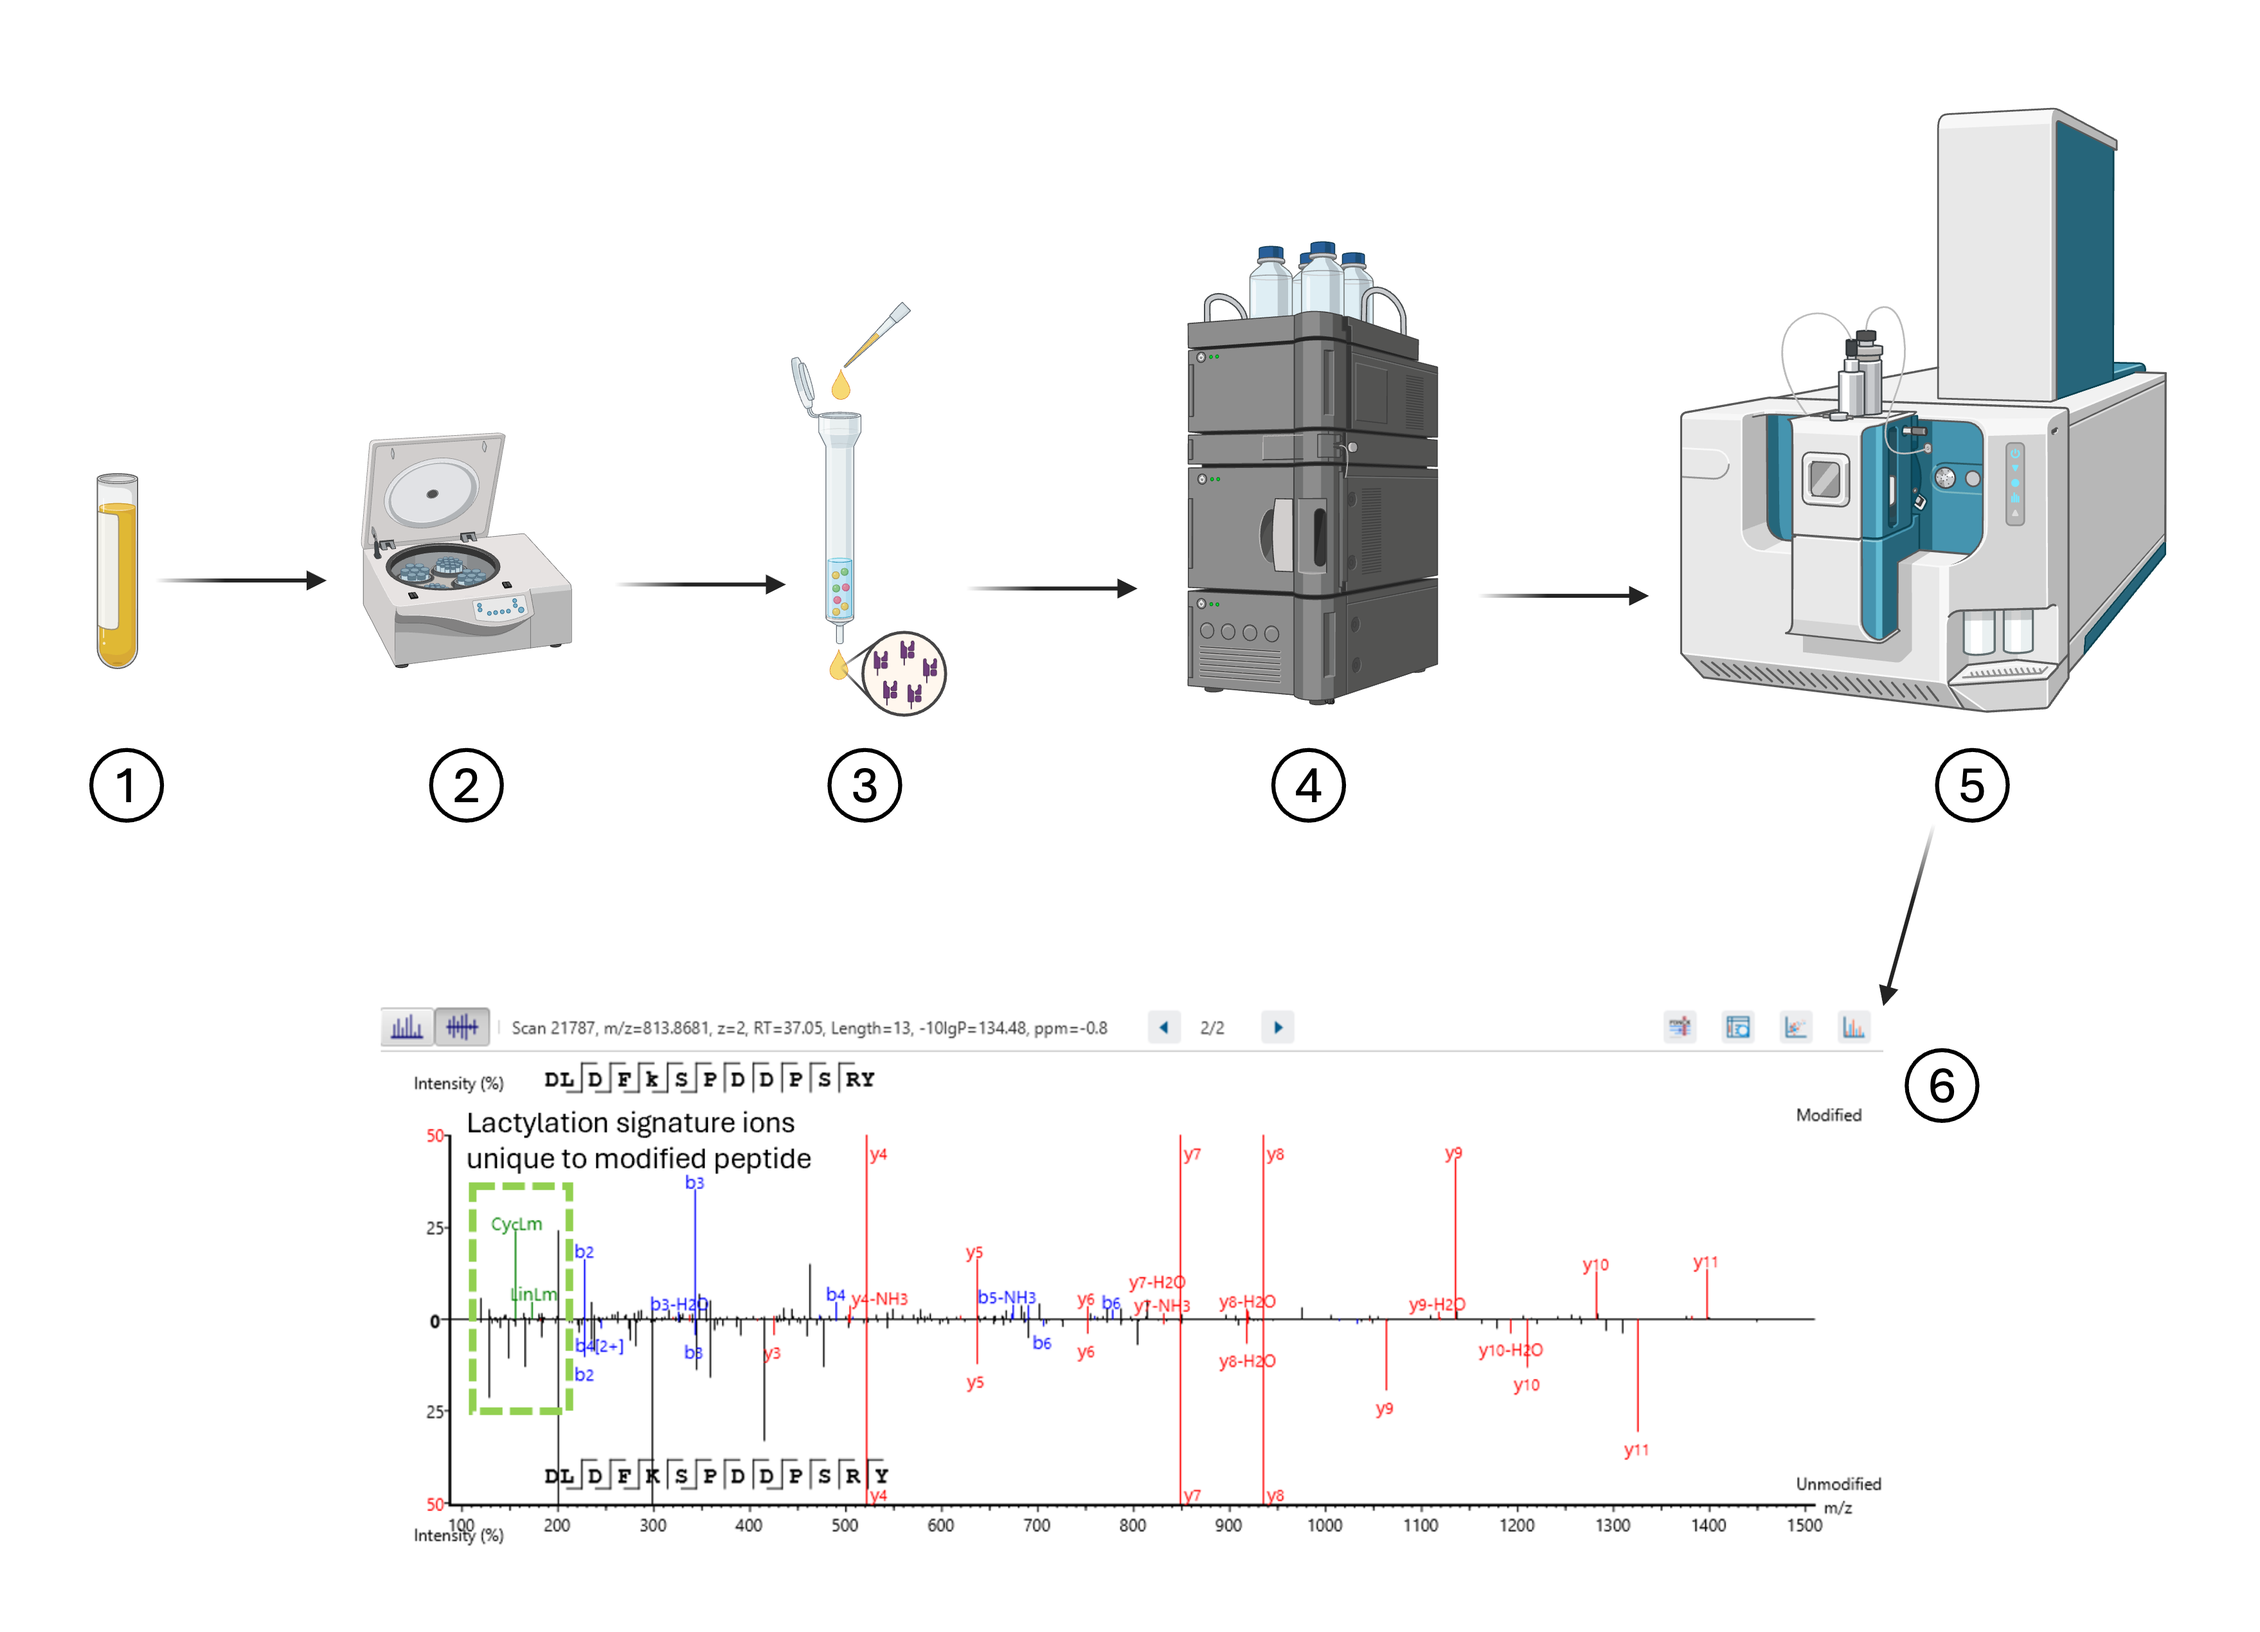
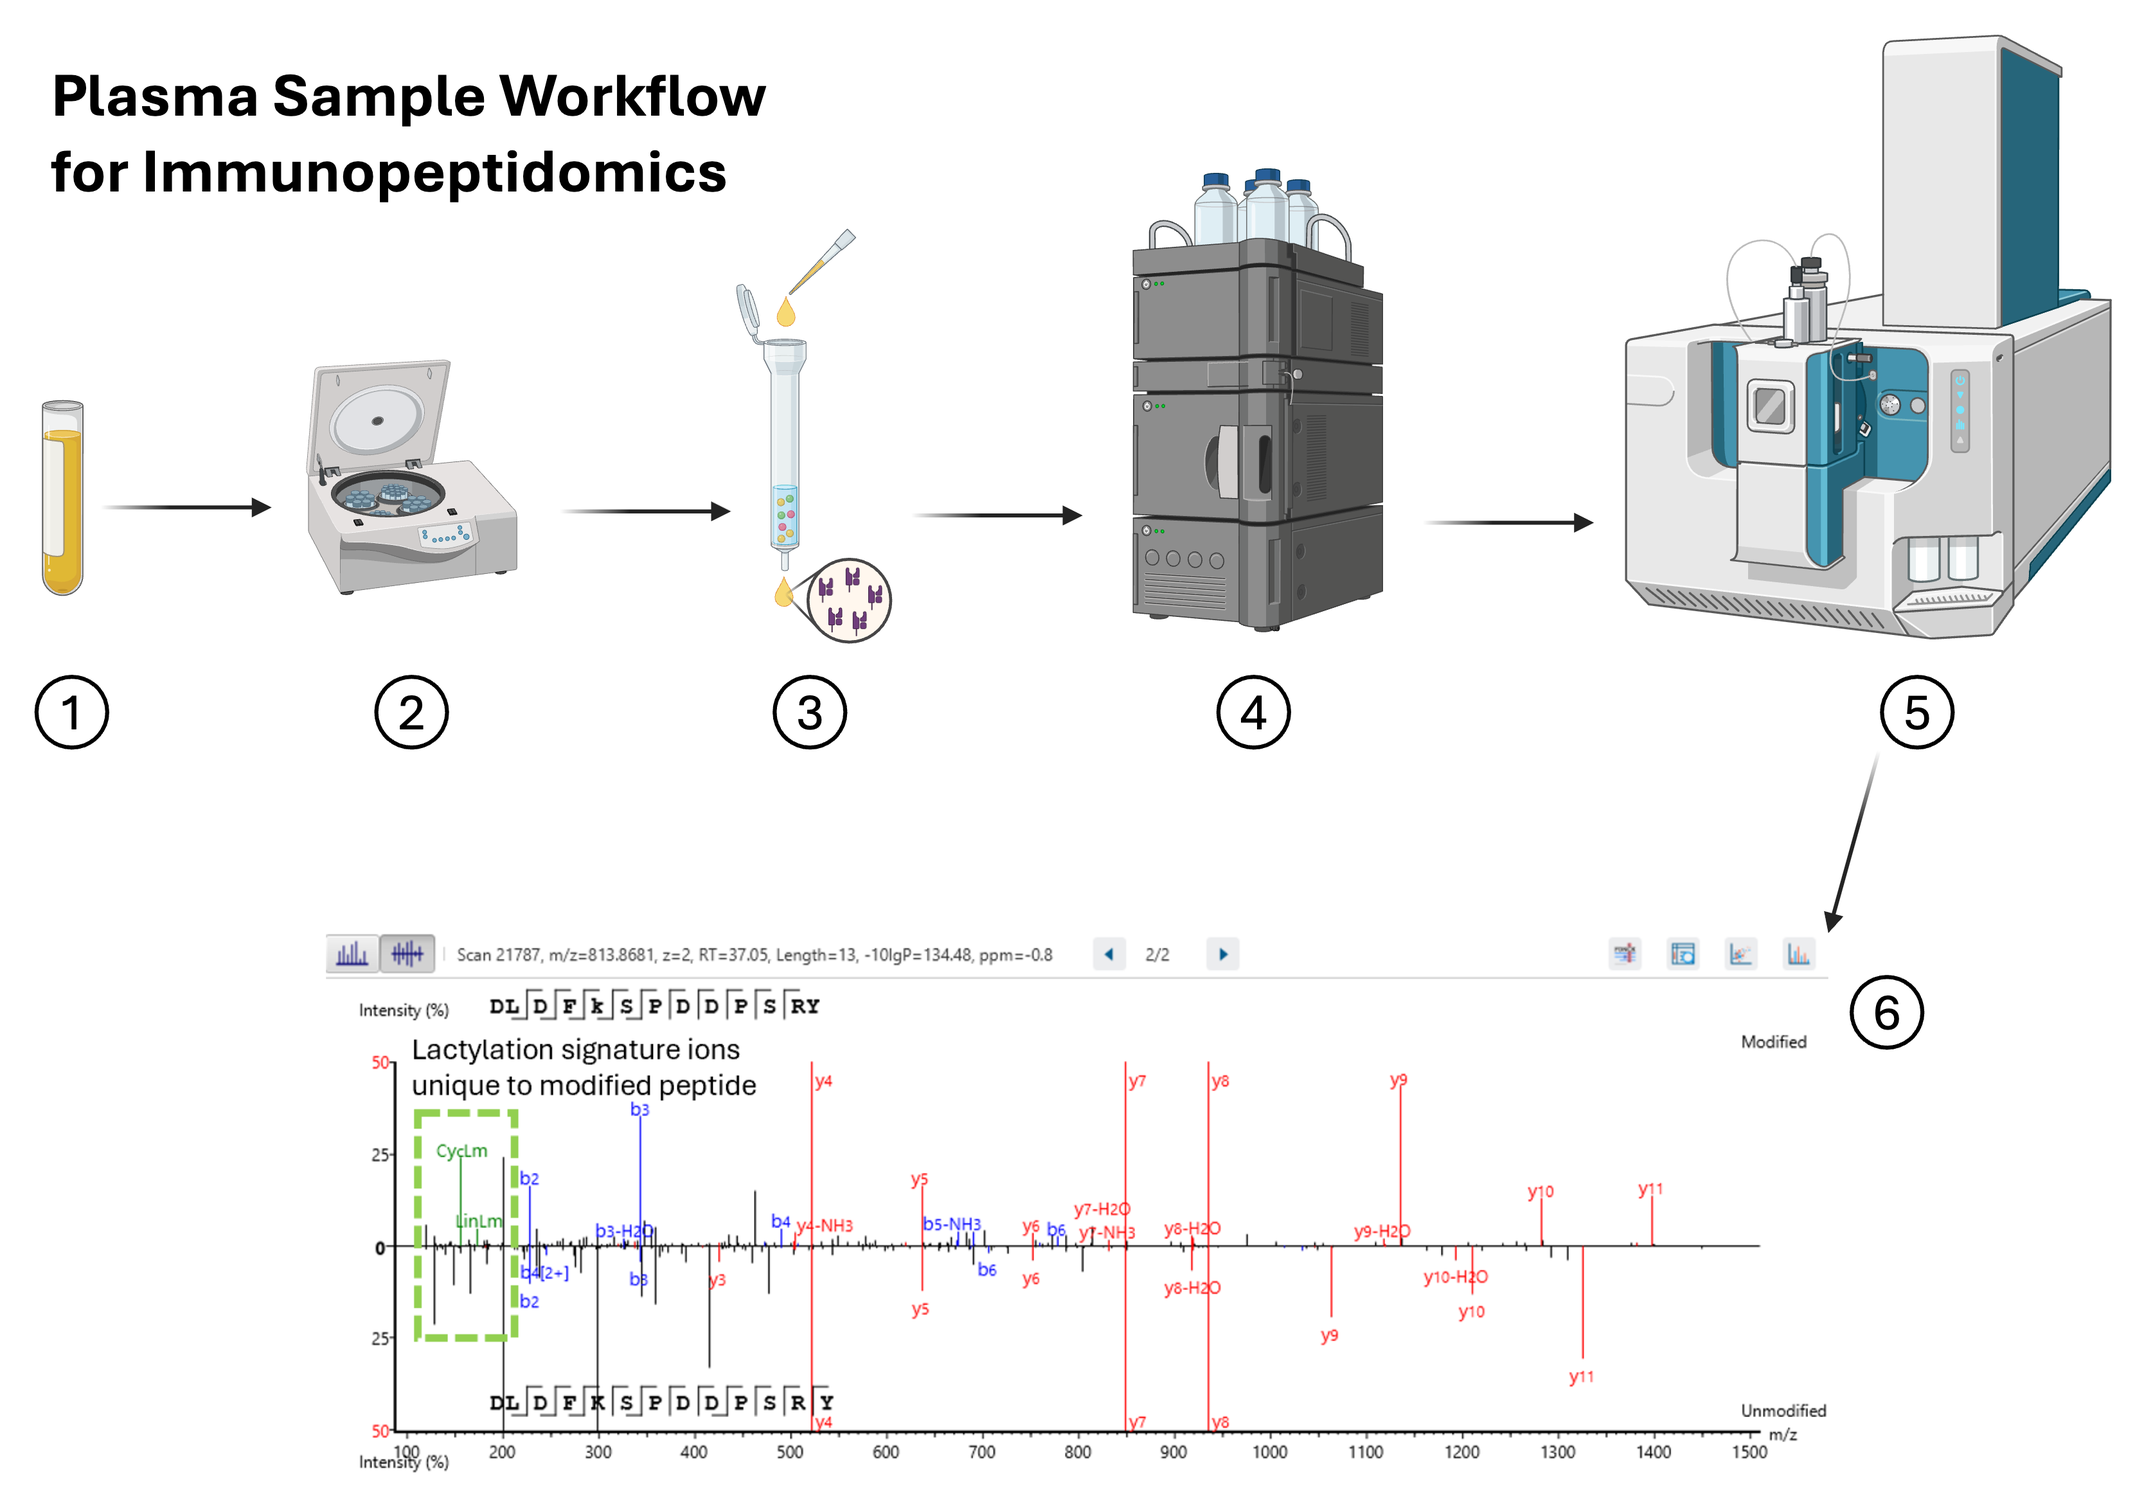
updated schematic again

diff --git a/docs/projects/sHLA_covid_peptides.html b/docs/projects/sHLA_covid_peptides.html
@@ -210,9 +210,10 @@ pre > code.sourceCode > span > a:first-child::before { text-decoration: underlin
 <section id="schematic" class="level3">
 <h3 class="anchored" data-anchor-id="schematic">Schematic</h3>
 <ol type="1">
-<li>Process and purify soluble HLA class I using immunoaffinity purification</li>
-<li>Fractionate using HP/LC</li>
-<li>Run on TOF Mass Spec</li>
+<li>Obtain serum sample of plasma</li>
+<li>Spin out debris</li>
+<li>Run over IP column with anti-class I antibody</li>
+<li>Fractionate to purify peptides and exclude large proteins</li>
 <li>Use mass spec analysis software to obtain peptide sequences, source proteins, and genes</li>
 <li>Perform analysis</li>
 </ol>
@@ -672,8 +673,9 @@ Parsing results... Done.</code></pre>
 
 Please cite:
 
-G Yu. Thirteen years of clusterProfiler. The Innovation. 2024,
-5(6):100722</code></pre>
+S Xu, E Hu, Y Cai, Z Xie, X Luo, L Zhan, W Tang, Q Wang, B Liu, R Wang,
+W Xie, T Wu, L Xie, G Yu. Using clusterProfiler to characterize
+multiomics data. Nature Protocols. 2024, 19(11):3292-3320</code></pre>
 </div>
 <div class="cell-output cell-output-stderr">
 <pre><code>
@@ -854,9 +856,9 @@ reactome pathway analysis and visualization. Molecular BioSystems.
 
 Please cite:
 
-Guangchuang Yu, Fei Li, Yide Qin, Xiaochen Bo, Yibo Wu and Shengqi
-Wang. GOSemSim: an R package for measuring semantic similarity among GO
-terms and gene products. Bioinformatics. 2010, 26(7):976-978</code></pre>
+Guangchuang Yu, Li-Gen Wang, and Qing-Yu He. ChIPseeker: an
+R/Bioconductor package for ChIP peak annotation, comparison and
+visualization. Bioinformatics. 2015, 31(14):2382-2383</code></pre>
 </div>
 <div class="code-copy-outer-scaffold"><div class="sourceCode cell-code" id="cb69"><pre class="sourceCode r code-with-copy"><code class="sourceCode r"><span id="cb69-1"><a href="#cb69-1" aria-hidden="true" tabindex="-1"></a>genes</span></code></pre></div><button title="Copy to Clipboard" class="code-copy-button"><i class="bi"></i></button></div>
 <div class="cell-output cell-output-stdout">
@@ -1610,12 +1612,12 @@ GO:0006986 1.971029e-03 1.521714e-04
 GO:0002455 2.518499e-03 1.944383e-04
 GO:0006356 2.518499e-03 1.944383e-04
                                                                                                                geneID
-GO:0035966              HSPA4/HERPUD1/ATXN3/MBTPS1/CLU/OS9/ATF6B/HSP90AB1/RTCB/DERL1/DNAJB14/AGR2/THBS4/STAT3/CREB3L3
-GO:0034976 HERPUD1/ATXN3/TRIM25/MBTPS1/CLU/EEF2/ERP29/OS9/ATF6B/PDIA4/RTCB/SEL1L/DERL1/AGR2/THBS4/UBAC2/STAT3/CREB3L3
-GO:0006958                                                                         C3/C1QC/CLU/IGHG2/IGHG3/IGHG1/C1QA
-GO:0006986                                HSPA4/HERPUD1/MBTPS1/OS9/ATF6B/HSP90AB1/RTCB/DERL1/AGR2/THBS4/STAT3/CREB3L3
-GO:0002455                                                                         C3/C1QC/CLU/IGHG2/IGHG3/IGHG1/C1QA
-GO:0006356                                                                 UBTF/SMARCA5/DDX21/POLR2L/MYO1C/FLNA/WDR43
+GO:0035966              THBS4/HSP90AB1/OS9/STAT3/CLU/ATXN3/MBTPS1/CREB3L3/HSPA4/RTCB/AGR2/HERPUD1/ATF6B/DERL1/DNAJB14
+GO:0034976 THBS4/ERP29/OS9/STAT3/CLU/ATXN3/MBTPS1/PDIA4/EEF2/TRIM25/CREB3L3/RTCB/AGR2/HERPUD1/ATF6B/SEL1L/DERL1/UBAC2
+GO:0006958                                                                         C3/C1QC/CLU/C1QA/IGHG3/IGHG2/IGHG1
+GO:0006986                                THBS4/HSP90AB1/OS9/STAT3/MBTPS1/CREB3L3/HSPA4/RTCB/AGR2/HERPUD1/ATF6B/DERL1
+GO:0002455                                                                         C3/C1QC/CLU/C1QA/IGHG3/IGHG2/IGHG1
+GO:0006356                                                                 SMARCA5/DDX21/UBTF/WDR43/POLR2L/MYO1C/FLNA
            Count
 GO:0035966    15
 GO:0034976    18
@@ -1672,12 +1674,12 @@ hsa04518 4.105670e-03
 hsa04612 9.524213e-03
 hsa03273 9.524213e-03
                                                                                                               geneID
-hsa04820 633/23002/3675/23345/7431/2023/4633/6385/5339/79784/2006/6711/7273/7060/4629/6709/7094/4627/25777/6645/1287
-hsa05150                                                              718/714/3861/3858/3115/3127/6404/3857/712/2266
-hsa04141                                        6238/5887/22872/9709/4287/8720/10961/10956/1388/9601/3326/6400/79139
-hsa04518                                                     718/3675/896/2244/7060/1499/7094/2316/3914/81/1287/2266
-hsa04612                                                                     3308/3115/3127/3107/3326/5641/6890/3106
-hsa03273                                                                                        8828/79784/4629/4627
+hsa04820 7060/7273/79784/6385/4633/2023/7431/1287/6711/4627/5339/2006/23002/4629/7094/6645/23345/3675/633/25777/6709
+hsa05150                                                              2266/3858/718/3115/714/6404/712/3861/3127/3857
+hsa04141                                        5887/6238/3326/22872/10961/10956/4287/8720/9601/9709/1388/6400/79139
+hsa04518                                                     7060/2266/896/718/1499/3914/1287/2244/7094/3675/81/2316
+hsa04612                                                                     3326/3107/3115/3106/3308/6890/3127/5641
+hsa03273                                                                                        79784/4627/4629/8828
          Count
 hsa04820    21
 hsa05150    10
